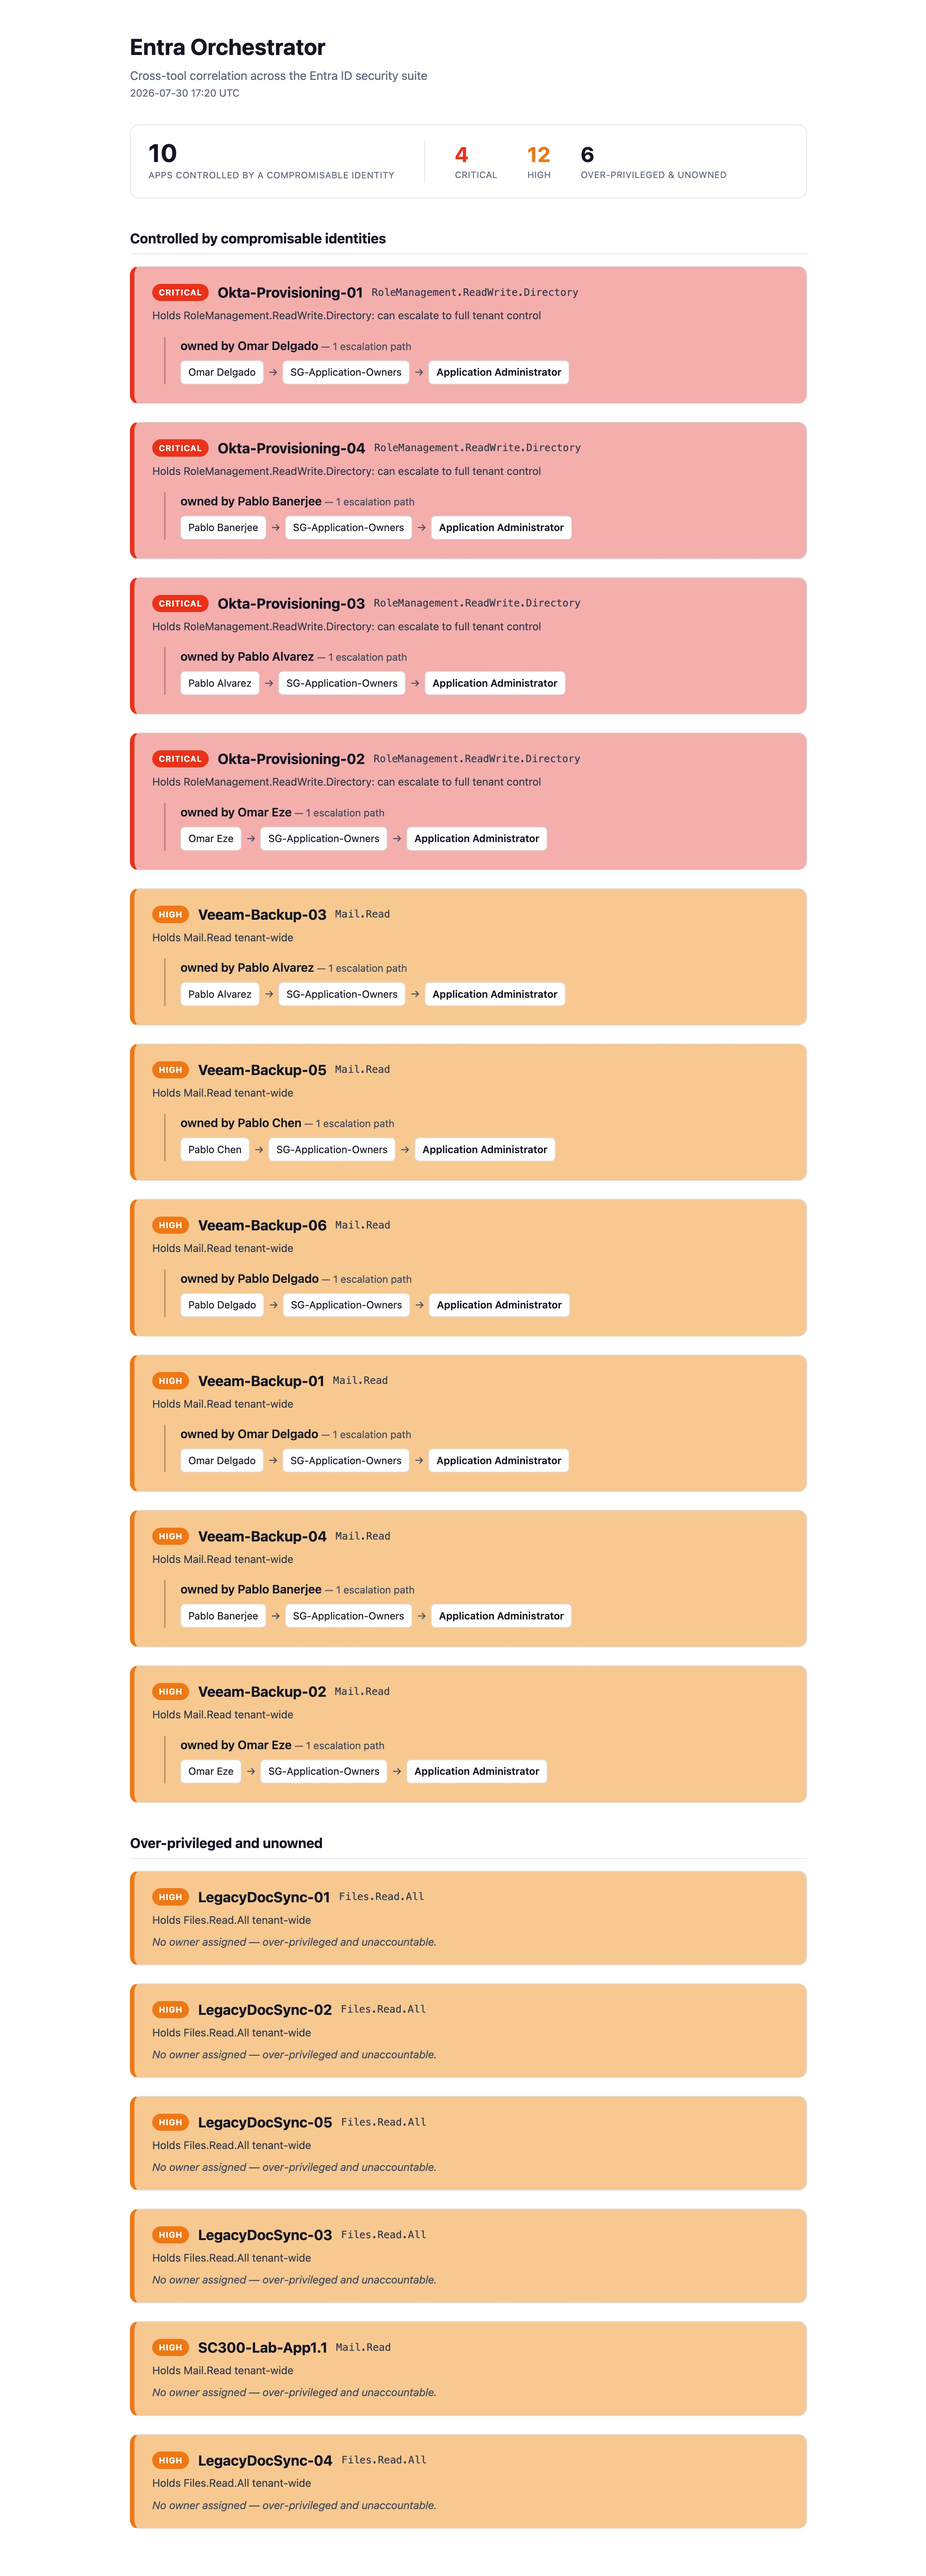
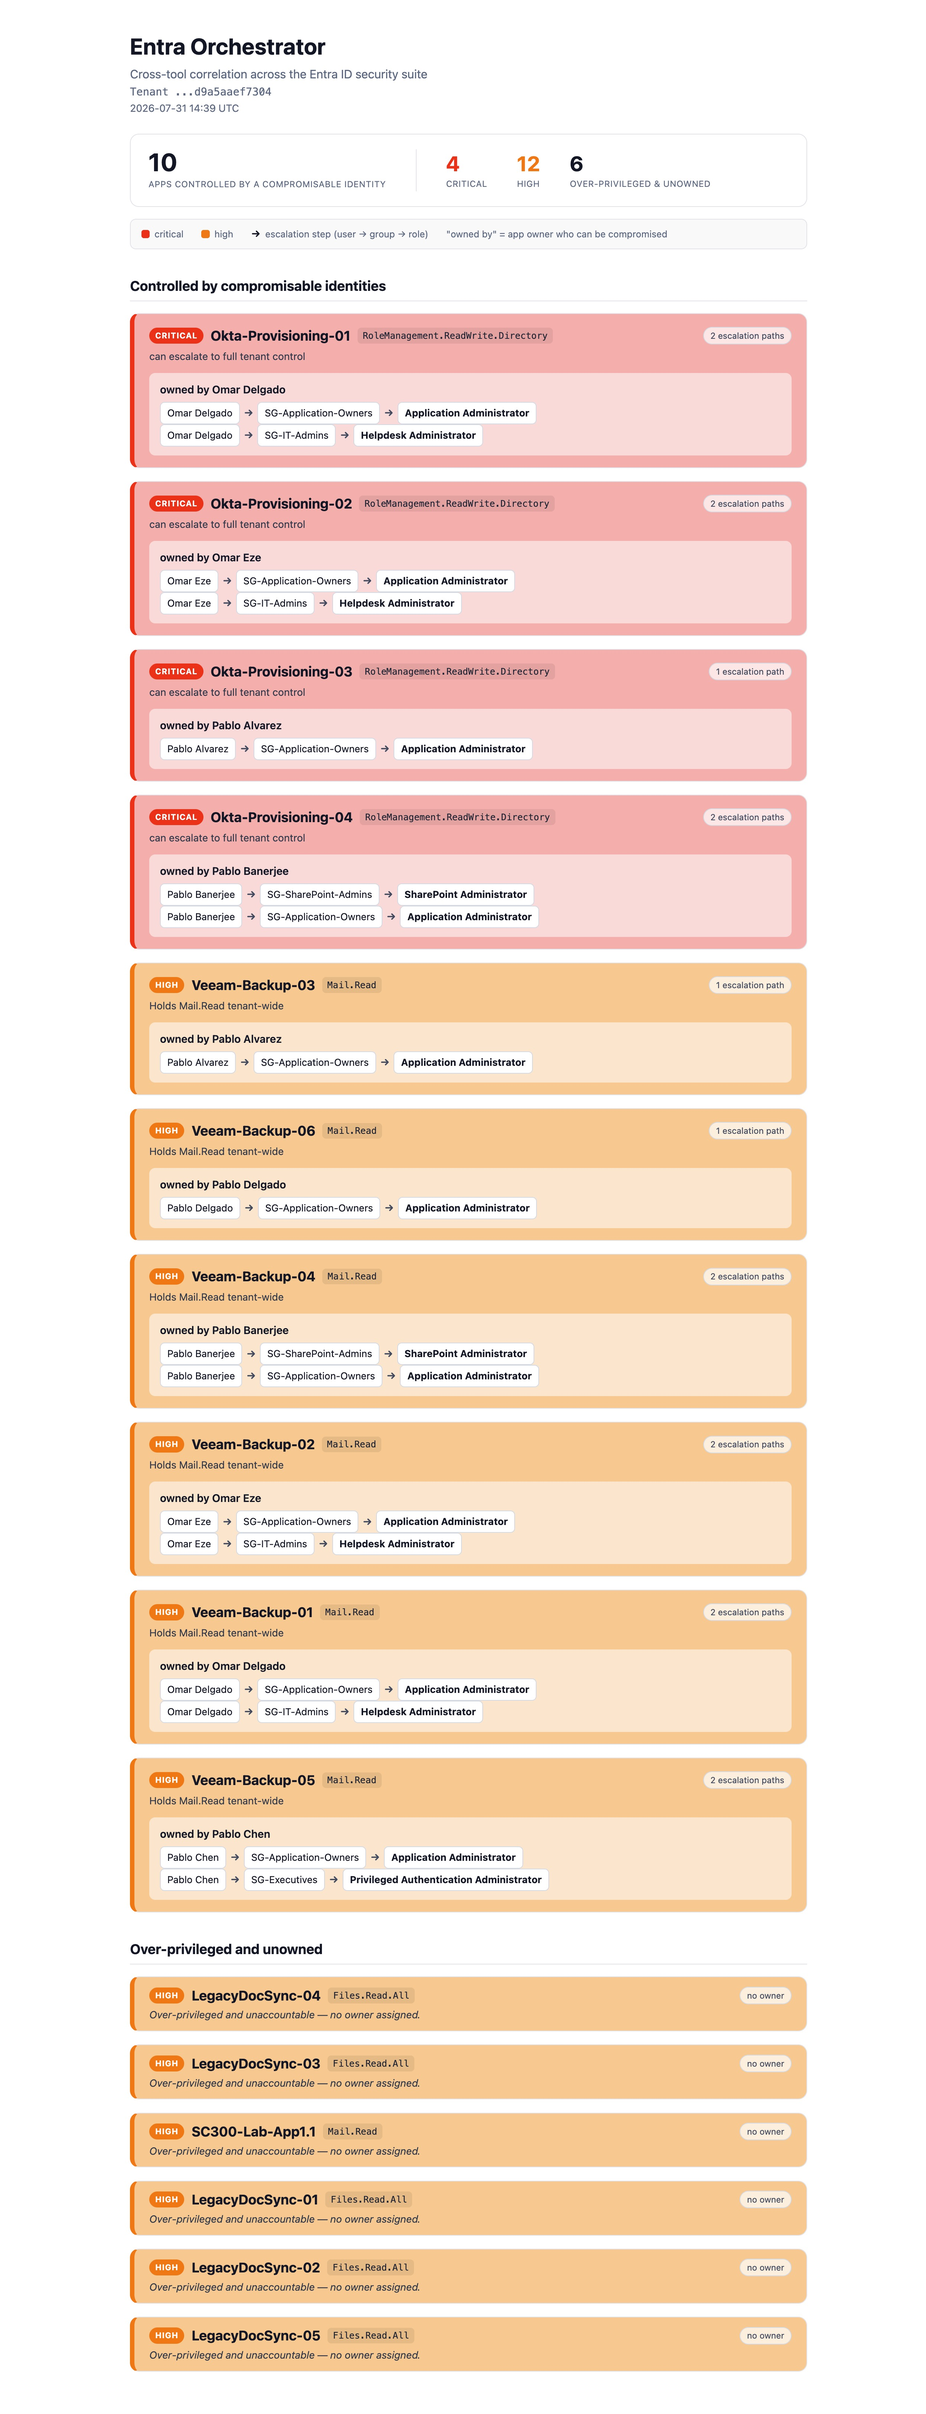
Update report and screenshot with multi-path escalation chains; ignore .DS_Store

diff --git a/orchestrator_report.html b/orchestrator_report.html
@@ -107,7 +107,7 @@ h2.section {
 <h1>Entra Orchestrator</h1>
 <p class="subtitle">Cross-tool correlation across the Entra ID security suite</p>
 <p class="tenant">Tenant ...d9a5aaef7304</p>
-<p class="ts">2026-07-31 13:57 UTC</p>
+<p class="ts">2026-07-31 14:39 UTC</p>
 <div class="summary">
   <div class="headline"><span class="n">10</span><span class="l">apps controlled by a compromisable identity</span></div>
   <div class="crit"><span class="n">4</span><span class="l">critical</span></div>
@@ -127,19 +127,19 @@ h2.section {
         <span class="badge sev-critical">critical</span>
         <span class="app-name">Okta-Provisioning-01</span>
         <span class="perm-tag">RoleManagement.ReadWrite.Directory</span>
-        <span class="path-count">1 escalation path</span>
+        <span class="path-count">2 escalation paths</span>
       </div>
       <div class="consequence">can escalate to full tenant control</div>
-      <div class="chain-zone"><div class="owner"><div class="owner-head">owned by Omar Delgado</div><div class="path"><span class="step">Omar Delgado</span><span class="arrow">&rarr;</span><span class="step">SG-Application-Owners</span><span class="arrow">&rarr;</span><span class="step role">Application Administrator</span></div></div></div>
+      <div class="chain-zone"><div class="owner"><div class="owner-head">owned by Omar Delgado</div><div class="path"><span class="step">Omar Delgado</span><span class="arrow">&rarr;</span><span class="step">SG-Application-Owners</span><span class="arrow">&rarr;</span><span class="step role">Application Administrator</span></div><div class="path"><span class="step">Omar Delgado</span><span class="arrow">&rarr;</span><span class="step">SG-IT-Admins</span><span class="arrow">&rarr;</span><span class="step role">Helpdesk Administrator</span></div></div></div>
     </div><div class="card sev-critical">
       <div class="headline-row">
         <span class="badge sev-critical">critical</span>
-        <span class="app-name">Okta-Provisioning-04</span>
+        <span class="app-name">Okta-Provisioning-02</span>
         <span class="perm-tag">RoleManagement.ReadWrite.Directory</span>
-        <span class="path-count">1 escalation path</span>
+        <span class="path-count">2 escalation paths</span>
       </div>
       <div class="consequence">can escalate to full tenant control</div>
-      <div class="chain-zone"><div class="owner"><div class="owner-head">owned by Pablo Banerjee</div><div class="path"><span class="step">Pablo Banerjee</span><span class="arrow">&rarr;</span><span class="step">SG-Application-Owners</span><span class="arrow">&rarr;</span><span class="step role">Application Administrator</span></div></div></div>
+      <div class="chain-zone"><div class="owner"><div class="owner-head">owned by Omar Eze</div><div class="path"><span class="step">Omar Eze</span><span class="arrow">&rarr;</span><span class="step">SG-Application-Owners</span><span class="arrow">&rarr;</span><span class="step role">Application Administrator</span></div><div class="path"><span class="step">Omar Eze</span><span class="arrow">&rarr;</span><span class="step">SG-IT-Admins</span><span class="arrow">&rarr;</span><span class="step role">Helpdesk Administrator</span></div></div></div>
     </div><div class="card sev-critical">
       <div class="headline-row">
         <span class="badge sev-critical">critical</span>
@@ -152,12 +152,12 @@ h2.section {
     </div><div class="card sev-critical">
       <div class="headline-row">
         <span class="badge sev-critical">critical</span>
-        <span class="app-name">Okta-Provisioning-02</span>
+        <span class="app-name">Okta-Provisioning-04</span>
         <span class="perm-tag">RoleManagement.ReadWrite.Directory</span>
-        <span class="path-count">1 escalation path</span>
+        <span class="path-count">2 escalation paths</span>
       </div>
       <div class="consequence">can escalate to full tenant control</div>
-      <div class="chain-zone"><div class="owner"><div class="owner-head">owned by Omar Eze</div><div class="path"><span class="step">Omar Eze</span><span class="arrow">&rarr;</span><span class="step">SG-Application-Owners</span><span class="arrow">&rarr;</span><span class="step role">Application Administrator</span></div></div></div>
+      <div class="chain-zone"><div class="owner"><div class="owner-head">owned by Pablo Banerjee</div><div class="path"><span class="step">Pablo Banerjee</span><span class="arrow">&rarr;</span><span class="step">SG-SharePoint-Admins</span><span class="arrow">&rarr;</span><span class="step role">SharePoint Administrator</span></div><div class="path"><span class="step">Pablo Banerjee</span><span class="arrow">&rarr;</span><span class="step">SG-Application-Owners</span><span class="arrow">&rarr;</span><span class="step role">Application Administrator</span></div></div></div>
     </div><div class="card sev-high">
       <div class="headline-row">
         <span class="badge sev-high">high</span>
@@ -170,15 +170,6 @@ h2.section {
     </div><div class="card sev-high">
       <div class="headline-row">
         <span class="badge sev-high">high</span>
-        <span class="app-name">Veeam-Backup-05</span>
-        <span class="perm-tag">Mail.Read</span>
-        <span class="path-count">1 escalation path</span>
-      </div>
-      <div class="consequence">Holds Mail.Read tenant-wide</div>
-      <div class="chain-zone"><div class="owner"><div class="owner-head">owned by Pablo Chen</div><div class="path"><span class="step">Pablo Chen</span><span class="arrow">&rarr;</span><span class="step">SG-Application-Owners</span><span class="arrow">&rarr;</span><span class="step role">Application Administrator</span></div></div></div>
-    </div><div class="card sev-high">
-      <div class="headline-row">
-        <span class="badge sev-high">high</span>
         <span class="app-name">Veeam-Backup-06</span>
         <span class="perm-tag">Mail.Read</span>
         <span class="path-count">1 escalation path</span>
@@ -188,53 +179,46 @@ h2.section {
     </div><div class="card sev-high">
       <div class="headline-row">
         <span class="badge sev-high">high</span>
-        <span class="app-name">Veeam-Backup-01</span>
-        <span class="perm-tag">Mail.Read</span>
-        <span class="path-count">1 escalation path</span>
-      </div>
-      <div class="consequence">Holds Mail.Read tenant-wide</div>
-      <div class="chain-zone"><div class="owner"><div class="owner-head">owned by Omar Delgado</div><div class="path"><span class="step">Omar Delgado</span><span class="arrow">&rarr;</span><span class="step">SG-Application-Owners</span><span class="arrow">&rarr;</span><span class="step role">Application Administrator</span></div></div></div>
-    </div><div class="card sev-high">
-      <div class="headline-row">
-        <span class="badge sev-high">high</span>
         <span class="app-name">Veeam-Backup-04</span>
         <span class="perm-tag">Mail.Read</span>
-        <span class="path-count">1 escalation path</span>
+        <span class="path-count">2 escalation paths</span>
       </div>
       <div class="consequence">Holds Mail.Read tenant-wide</div>
-      <div class="chain-zone"><div class="owner"><div class="owner-head">owned by Pablo Banerjee</div><div class="path"><span class="step">Pablo Banerjee</span><span class="arrow">&rarr;</span><span class="step">SG-Application-Owners</span><span class="arrow">&rarr;</span><span class="step role">Application Administrator</span></div></div></div>
+      <div class="chain-zone"><div class="owner"><div class="owner-head">owned by Pablo Banerjee</div><div class="path"><span class="step">Pablo Banerjee</span><span class="arrow">&rarr;</span><span class="step">SG-SharePoint-Admins</span><span class="arrow">&rarr;</span><span class="step role">SharePoint Administrator</span></div><div class="path"><span class="step">Pablo Banerjee</span><span class="arrow">&rarr;</span><span class="step">SG-Application-Owners</span><span class="arrow">&rarr;</span><span class="step role">Application Administrator</span></div></div></div>
     </div><div class="card sev-high">
       <div class="headline-row">
         <span class="badge sev-high">high</span>
         <span class="app-name">Veeam-Backup-02</span>
         <span class="perm-tag">Mail.Read</span>
-        <span class="path-count">1 escalation path</span>
+        <span class="path-count">2 escalation paths</span>
       </div>
       <div class="consequence">Holds Mail.Read tenant-wide</div>
-      <div class="chain-zone"><div class="owner"><div class="owner-head">owned by Omar Eze</div><div class="path"><span class="step">Omar Eze</span><span class="arrow">&rarr;</span><span class="step">SG-Application-Owners</span><span class="arrow">&rarr;</span><span class="step role">Application Administrator</span></div></div></div>
+      <div class="chain-zone"><div class="owner"><div class="owner-head">owned by Omar Eze</div><div class="path"><span class="step">Omar Eze</span><span class="arrow">&rarr;</span><span class="step">SG-Application-Owners</span><span class="arrow">&rarr;</span><span class="step role">Application Administrator</span></div><div class="path"><span class="step">Omar Eze</span><span class="arrow">&rarr;</span><span class="step">SG-IT-Admins</span><span class="arrow">&rarr;</span><span class="step role">Helpdesk Administrator</span></div></div></div>
+    </div><div class="card sev-high">
+      <div class="headline-row">
+        <span class="badge sev-high">high</span>
+        <span class="app-name">Veeam-Backup-01</span>
+        <span class="perm-tag">Mail.Read</span>
+        <span class="path-count">2 escalation paths</span>
+      </div>
+      <div class="consequence">Holds Mail.Read tenant-wide</div>
+      <div class="chain-zone"><div class="owner"><div class="owner-head">owned by Omar Delgado</div><div class="path"><span class="step">Omar Delgado</span><span class="arrow">&rarr;</span><span class="step">SG-Application-Owners</span><span class="arrow">&rarr;</span><span class="step role">Application Administrator</span></div><div class="path"><span class="step">Omar Delgado</span><span class="arrow">&rarr;</span><span class="step">SG-IT-Admins</span><span class="arrow">&rarr;</span><span class="step role">Helpdesk Administrator</span></div></div></div>
+    </div><div class="card sev-high">
+      <div class="headline-row">
+        <span class="badge sev-high">high</span>
+        <span class="app-name">Veeam-Backup-05</span>
+        <span class="perm-tag">Mail.Read</span>
+        <span class="path-count">2 escalation paths</span>
+      </div>
+      <div class="consequence">Holds Mail.Read tenant-wide</div>
+      <div class="chain-zone"><div class="owner"><div class="owner-head">owned by Pablo Chen</div><div class="path"><span class="step">Pablo Chen</span><span class="arrow">&rarr;</span><span class="step">SG-Application-Owners</span><span class="arrow">&rarr;</span><span class="step role">Application Administrator</span></div><div class="path"><span class="step">Pablo Chen</span><span class="arrow">&rarr;</span><span class="step">SG-Executives</span><span class="arrow">&rarr;</span><span class="step role">Privileged Authentication Administrator</span></div></div></div>
     </div>
 
 <h2 class="section">Over-privileged and unowned</h2>
 <div class="card unowned sev-high">
       <div class="headline-row">
         <span class="badge sev-high">high</span>
-        <span class="app-name">LegacyDocSync-01</span>
-        <span class="perm-tag">Files.Read.All</span>
-        <span class="path-count">no owner</span>
-      </div>
-      <div class="consequence">Over-privileged and unaccountable &mdash; no owner assigned.</div>
-    </div><div class="card unowned sev-high">
-      <div class="headline-row">
-        <span class="badge sev-high">high</span>
-        <span class="app-name">LegacyDocSync-02</span>
-        <span class="perm-tag">Files.Read.All</span>
-        <span class="path-count">no owner</span>
-      </div>
-      <div class="consequence">Over-privileged and unaccountable &mdash; no owner assigned.</div>
-    </div><div class="card unowned sev-high">
-      <div class="headline-row">
-        <span class="badge sev-high">high</span>
-        <span class="app-name">LegacyDocSync-05</span>
+        <span class="app-name">LegacyDocSync-04</span>
         <span class="perm-tag">Files.Read.All</span>
         <span class="path-count">no owner</span>
       </div>
@@ -258,7 +242,23 @@ h2.section {
     </div><div class="card unowned sev-high">
       <div class="headline-row">
         <span class="badge sev-high">high</span>
-        <span class="app-name">LegacyDocSync-04</span>
+        <span class="app-name">LegacyDocSync-01</span>
+        <span class="perm-tag">Files.Read.All</span>
+        <span class="path-count">no owner</span>
+      </div>
+      <div class="consequence">Over-privileged and unaccountable &mdash; no owner assigned.</div>
+    </div><div class="card unowned sev-high">
+      <div class="headline-row">
+        <span class="badge sev-high">high</span>
+        <span class="app-name">LegacyDocSync-02</span>
+        <span class="perm-tag">Files.Read.All</span>
+        <span class="path-count">no owner</span>
+      </div>
+      <div class="consequence">Over-privileged and unaccountable &mdash; no owner assigned.</div>
+    </div><div class="card unowned sev-high">
+      <div class="headline-row">
+        <span class="badge sev-high">high</span>
+        <span class="app-name">LegacyDocSync-05</span>
         <span class="perm-tag">Files.Read.All</span>
         <span class="path-count">no owner</span>
       </div>
